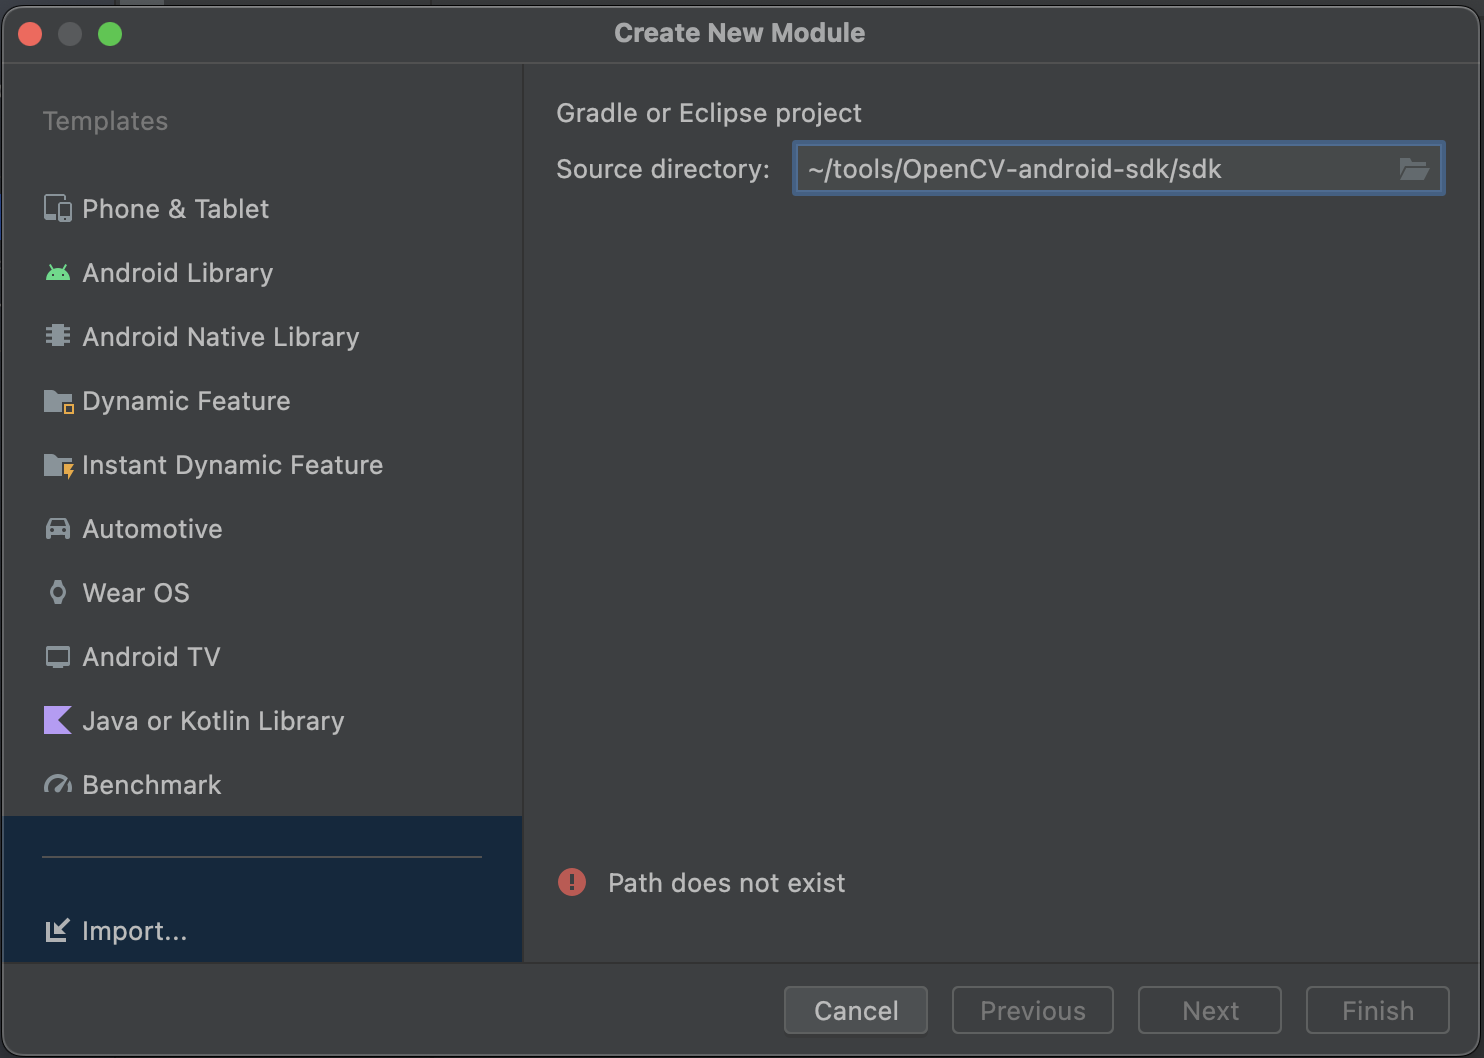
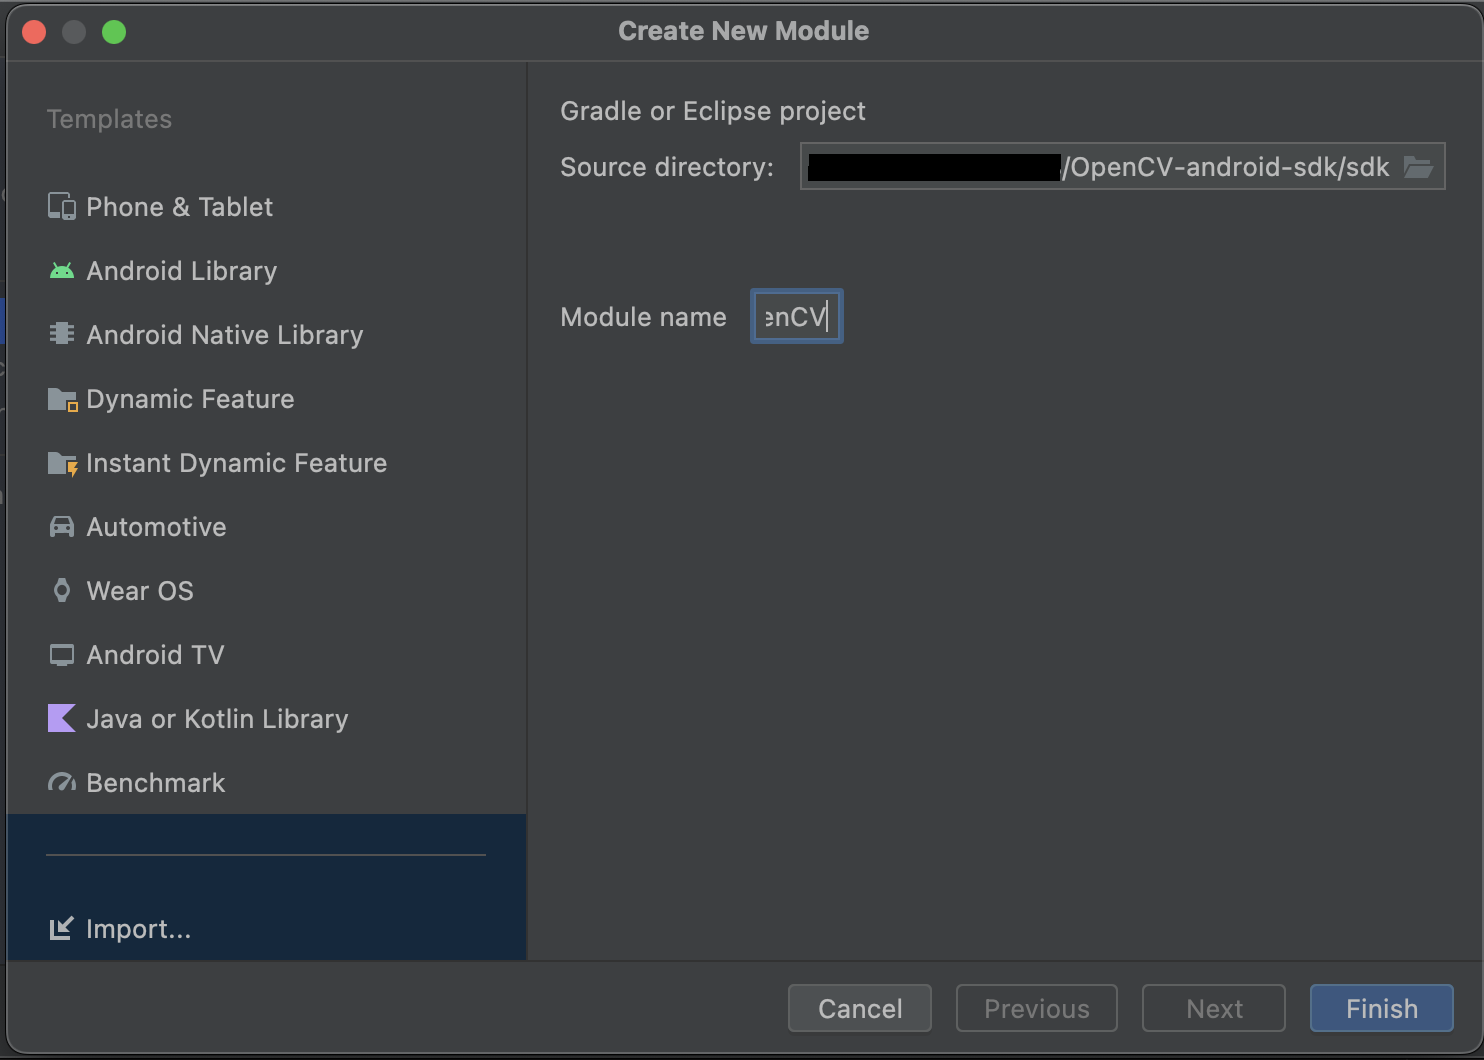
Update installation guide

Changed region(s): [[0.0, 0.0, 1.0, 1.0], [0.372, 0.2495, 0.5889, 0.3431], [0.372, 0.811, 0.558, 0.8422]]

diff --git a/readme.md b/readme.md
@@ -2,7 +2,7 @@
 This project showcases Augmented Reality (AR) on Android by projecting a cube onto a reference object. 
 It uses the OpenCV 4.8.0 SDK for Android and Kotlin. 
 
-The Computer Vision algorithms have been taken from [https://github.com/Wissiak/augmented-reality-on-webcam](Augmented Reality on Webcam).
+The Computer Vision algorithms have been taken from [Augmented Reality on Webcam](https://github.com/Wissiak/augmented-reality-on-webcam).
 The mobile version has been rewritten to Kotlin and has been enhanced with some mobile functionalities. 
 The goal of this project was not to improve performance but rather to show the feasibility of a simple AR project on mobile devices.
 
@@ -10,16 +10,30 @@ The goal of this project was not to improve performance but rather to show the f
 
 
 ## Project Setup
-1. Download the OpenCV 4.8.0 Android SDK from [https://opencv.org/releases/](OpenCV Releases)
+1. Download the OpenCV 4.8.0 Android SDK from [OpenCV Releases](https://opencv.org/releases/)
 2. Unpack the downloaded folder to a folder of your choice (e.g. ~/tools/OpenCV-android-sdk)
 3. Clone this repository
 4. Open this repository in Android Studio
-5. Open "Project Structure... > Modules" and click on "New Module"
-6. Click on "Import Module" and specify the unpacked folder with "/sdk" appended (e.g. ~/tools/OpenCV-android-sdk/sdk)
+5. Open `Project Structure... > Modules` and click on `New Module`
+---
+**NOTE**
+You might have to remove the module "openCV" first in order to add it again. For this, do the following: 
+1. Comment out the following line in `app/build.gralde` and try again:
+`implementation project(path: ':openCV')`
+2. Go to `Project Structure... > Modules` and remove the openCV module.
+3. Run Gradle sync
+
+Afterwards you should be able to add it normally.
+
+---
+6. Click on `Import Module` and specify the unpacked folder with "/sdk" appended (e.g. ~/tools/OpenCV-android-sdk/sdk)
 ![Import Module](./opencv-installation.png)
+
+---
+Remember to uncomment the line in `app/build.gralde` if you commented it out before:
+`implementation project(path: ':openCV')`
+
+---
+
 7. Wait for Gradle build to (hopefully) finish successfully
 8. Start the App! :)
-
-## Notes
-The feature detection and feature matching are not running very fast on a mobile device. 
-If you want a smoother video, the emulator can be used.
